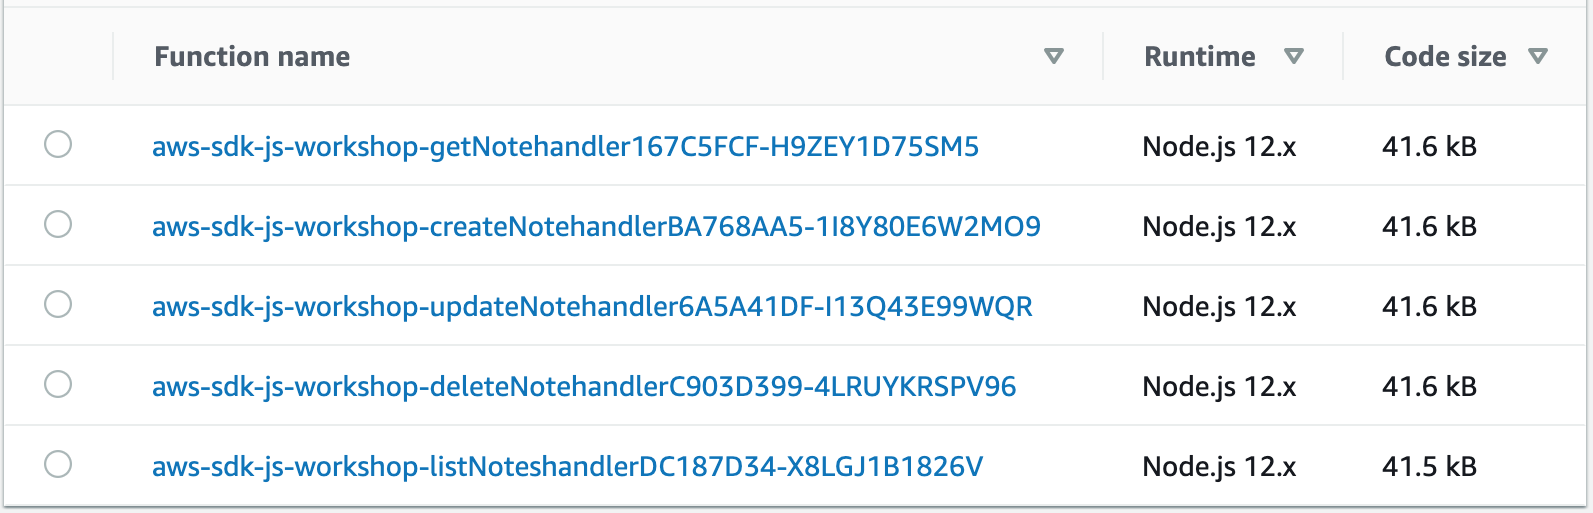
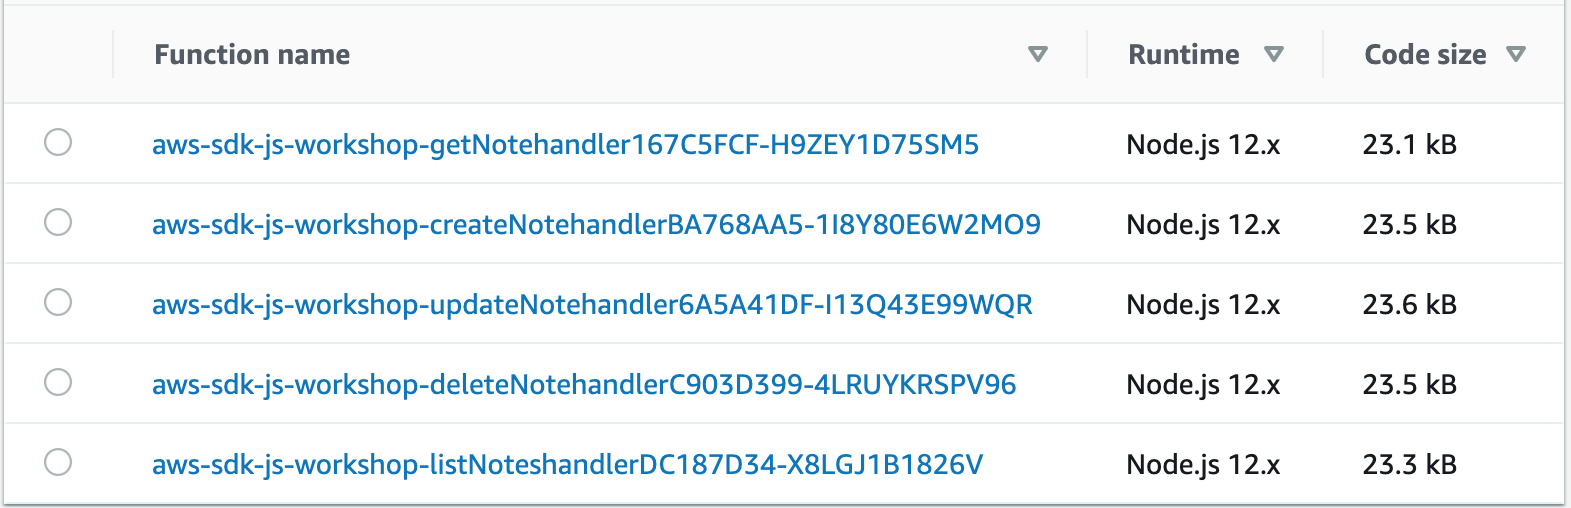
fix: set compilerOptions.module to ES6 to enable tree shaking (#223)

diff --git a/packages/backend/README.md b/packages/backend/README.md
@@ -131,7 +131,6 @@ In this section, we're going to update the code to import DynamoDB Client in dif
 
 ### Reduce bundle size even more by just importing specific commands in v3
 
-- TODO: Needs debugging on why bundle size doesn't reduce in `1.0.0-rc` prerelease. It worked in `1.0.0-preview` release.
 - AWS JS SDK v3 has an option to import specific commands, thus reducing bundle size further!
 - Make the following change in [`dynamoDB.ts`](./src/libs/dynamoDB.ts) to import DynamoDBClient from v3
 
@@ -162,7 +161,7 @@ In this section, we're going to update the code to import DynamoDB Client in dif
       return failure({ status: false });
   ```
 
-- Run `yarn build:backend` and `yarn cdk deploy` to build+deploy new code, and the size of lambda functions will reduce to ~ _X_ kB!
+- Run `yarn build:backend` and `yarn cdk deploy` to build+deploy new code, and the size of lambda functions will reduce to ~23 kB!
 
   <details><summary>Click to view image</summary>
   <p>
